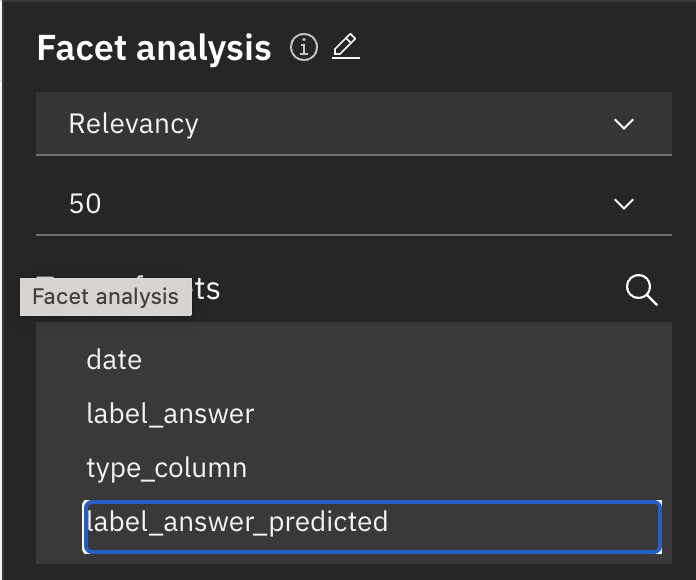
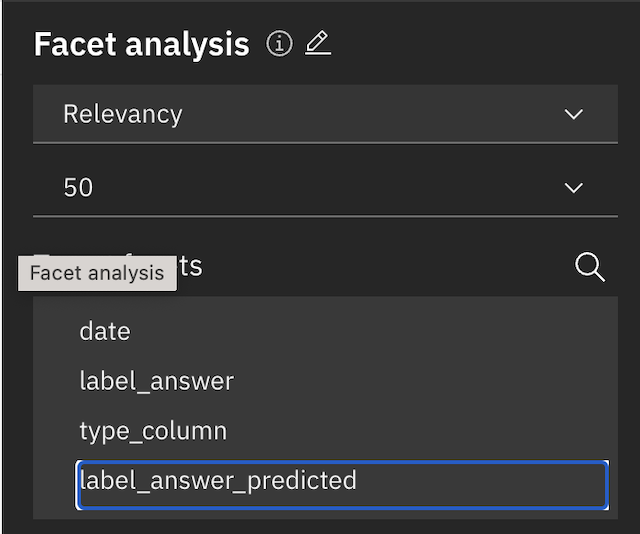
adding link to export data from classifier topic

diff --git a/cm-doc-classifier.md b/cm-doc-classifier.md
@@ -2,7 +2,7 @@
 
 copyright:
   years: 2015, 2023
-lastupdated: "2023-02-06"
+lastupdated: "2023-02-09"
 
 subcollection: discovery-data
 
@@ -173,9 +173,14 @@ After the model is trained, deploy the model as an enrichment.
         1.  In the **Enrichments** tab, locate your classifier in the **Name** column. From the **Fields to enrich** field, choose the same text field that was used to train the model. (This field is determined by the system and is indexed as the *Analyzable text content* field. For more information, see [Identifying the text field](/docs/discovery-data?topic=discovery-data-cm-edit-collection#text-field).)
         1.  Click **Apply changes and reprocess**.
 
+## Results of classification
+{: #cm-doc-classifier-results}
+
 After the enrichment is applied to a collection, a facet is generated that you can use to find the predicted classes. In this example, the predicted field is named `label_answer_predicted`.
 
-![Shows the Label_answer_predicted facet](images/cm-doc-class-predicted.png){: caption="Figure 2. Shows the facet that is generated after the doc classifier enrichment is applied to a collection" caption-side="bottom"}
+![Shows the facet that is generated after the doc classifier enrichment is applied to a collection](images/cm-doc-class-predicted.png){: caption="Figure 2. A Label_answer_predicted facet is generated" caption-side="bottom"}
+
+Use the generated facet to filter documents by classification and analyze subsets of documents. Doing so helps you to find patterns and discover other insights. You can export these target documents to share with team members or to analyze further. For more information, see [Exporting data](/docs/discovery-data?topic=discovery-data-cm-export).
 
 When the document classifier classifies a document, it stores the classification in the `document_level_enrichment.classes.class_name` field.
 

diff --git a/version-choose.md b/version-choose.md
@@ -2,7 +2,7 @@
 
 copyright:
   years: 2020, 2023
-lastupdated: "2022-11-30"
+lastupdated: "2023-02-08"
 
 subcollection: discovery-data
 
@@ -65,7 +65,7 @@ If you are already familiar with {{site.data.keyword.discoveryshort}} v1, learn 
 | Programmatically configure external data source crawls | | ![checkmark icon](../icons/checkmark-icon.svg) |
 | Configure the normalization process of ingestion by document type. Configuration options include things like document segmentation, HTML file inclusion or exclusion rules, and JSON normalization | | ![checkmark icon](../icons/checkmark-icon.svg) |
 | Configure dictionary tokenization | | ![checkmark icon](../icons/checkmark-icon.svg) |
-| Advanced question-answering capabilities, such as extracting FAQs (beta) and returning the exact answer | ![checkmark icon](../icons/checkmark-icon.svg) | |
+| Advanced question-answering capabilities, such as returning the exact answer | ![checkmark icon](../icons/checkmark-icon.svg) | |
 | {{site.data.keyword.discoveryshort}} Query Language (DQL) API support | ![checkmark icon](../icons/checkmark-icon.svg) | ![checkmark icon](../icons/checkmark-icon.svg) |
 | Retrieve passages from documents | ![checkmark icon](../icons/checkmark-icon.svg) | ![checkmark icon](../icons/checkmark-icon.svg) |
 | Perform relevancy training to improve query results | ![checkmark icon](../icons/checkmark-icon.svg) | ![checkmark icon](../icons/checkmark-icon.svg) |

diff --git a/connector-lfs-cp4d.md b/connector-lfs-cp4d.md
@@ -2,7 +2,7 @@
 
 copyright:
   years: 2019, 2023
-lastupdated: "2022-09-28"
+lastupdated: "2023-02-09"
 
 subcollection: discovery-data
 
@@ -246,7 +246,7 @@ If the local file system files or folders that you want to crawl are stored in a
 
 If you want to crawl your local file system files or folders but you do not want to prepare an extra NFS server to store those files or folders, you can configure dynamic storage by using an NFS storage class.
 
-For more information about storage providers that {{site.data.keyword.discoveryshort}} supports and for storage comparisons, see [Storage considerations](https://www.ibm.com/support/producthub/icpdata/docs/content/SSQNUZ_current/cpd/plan/storage_considerations.html){: external}.
+For more information about storage providers that {{site.data.keyword.discoveryshort}} supports and for storage comparisons, see [Storage considerations](https://www.ibm.com/docs/en/cloud-paks/cp-data/4.6.x?topic=planning-storage-considerations){: external}.
 
 Before you complete this task, copy the files that you want to crawl to the {{site.data.keyword.discoveryshort}} cluster that you are working on. If you have multiple {{site.data.keyword.discoveryshort}} clusters, you must copy the files along with the `crawler-pvc-dynamic.yaml` file that you create in this task to each cluster.
 
